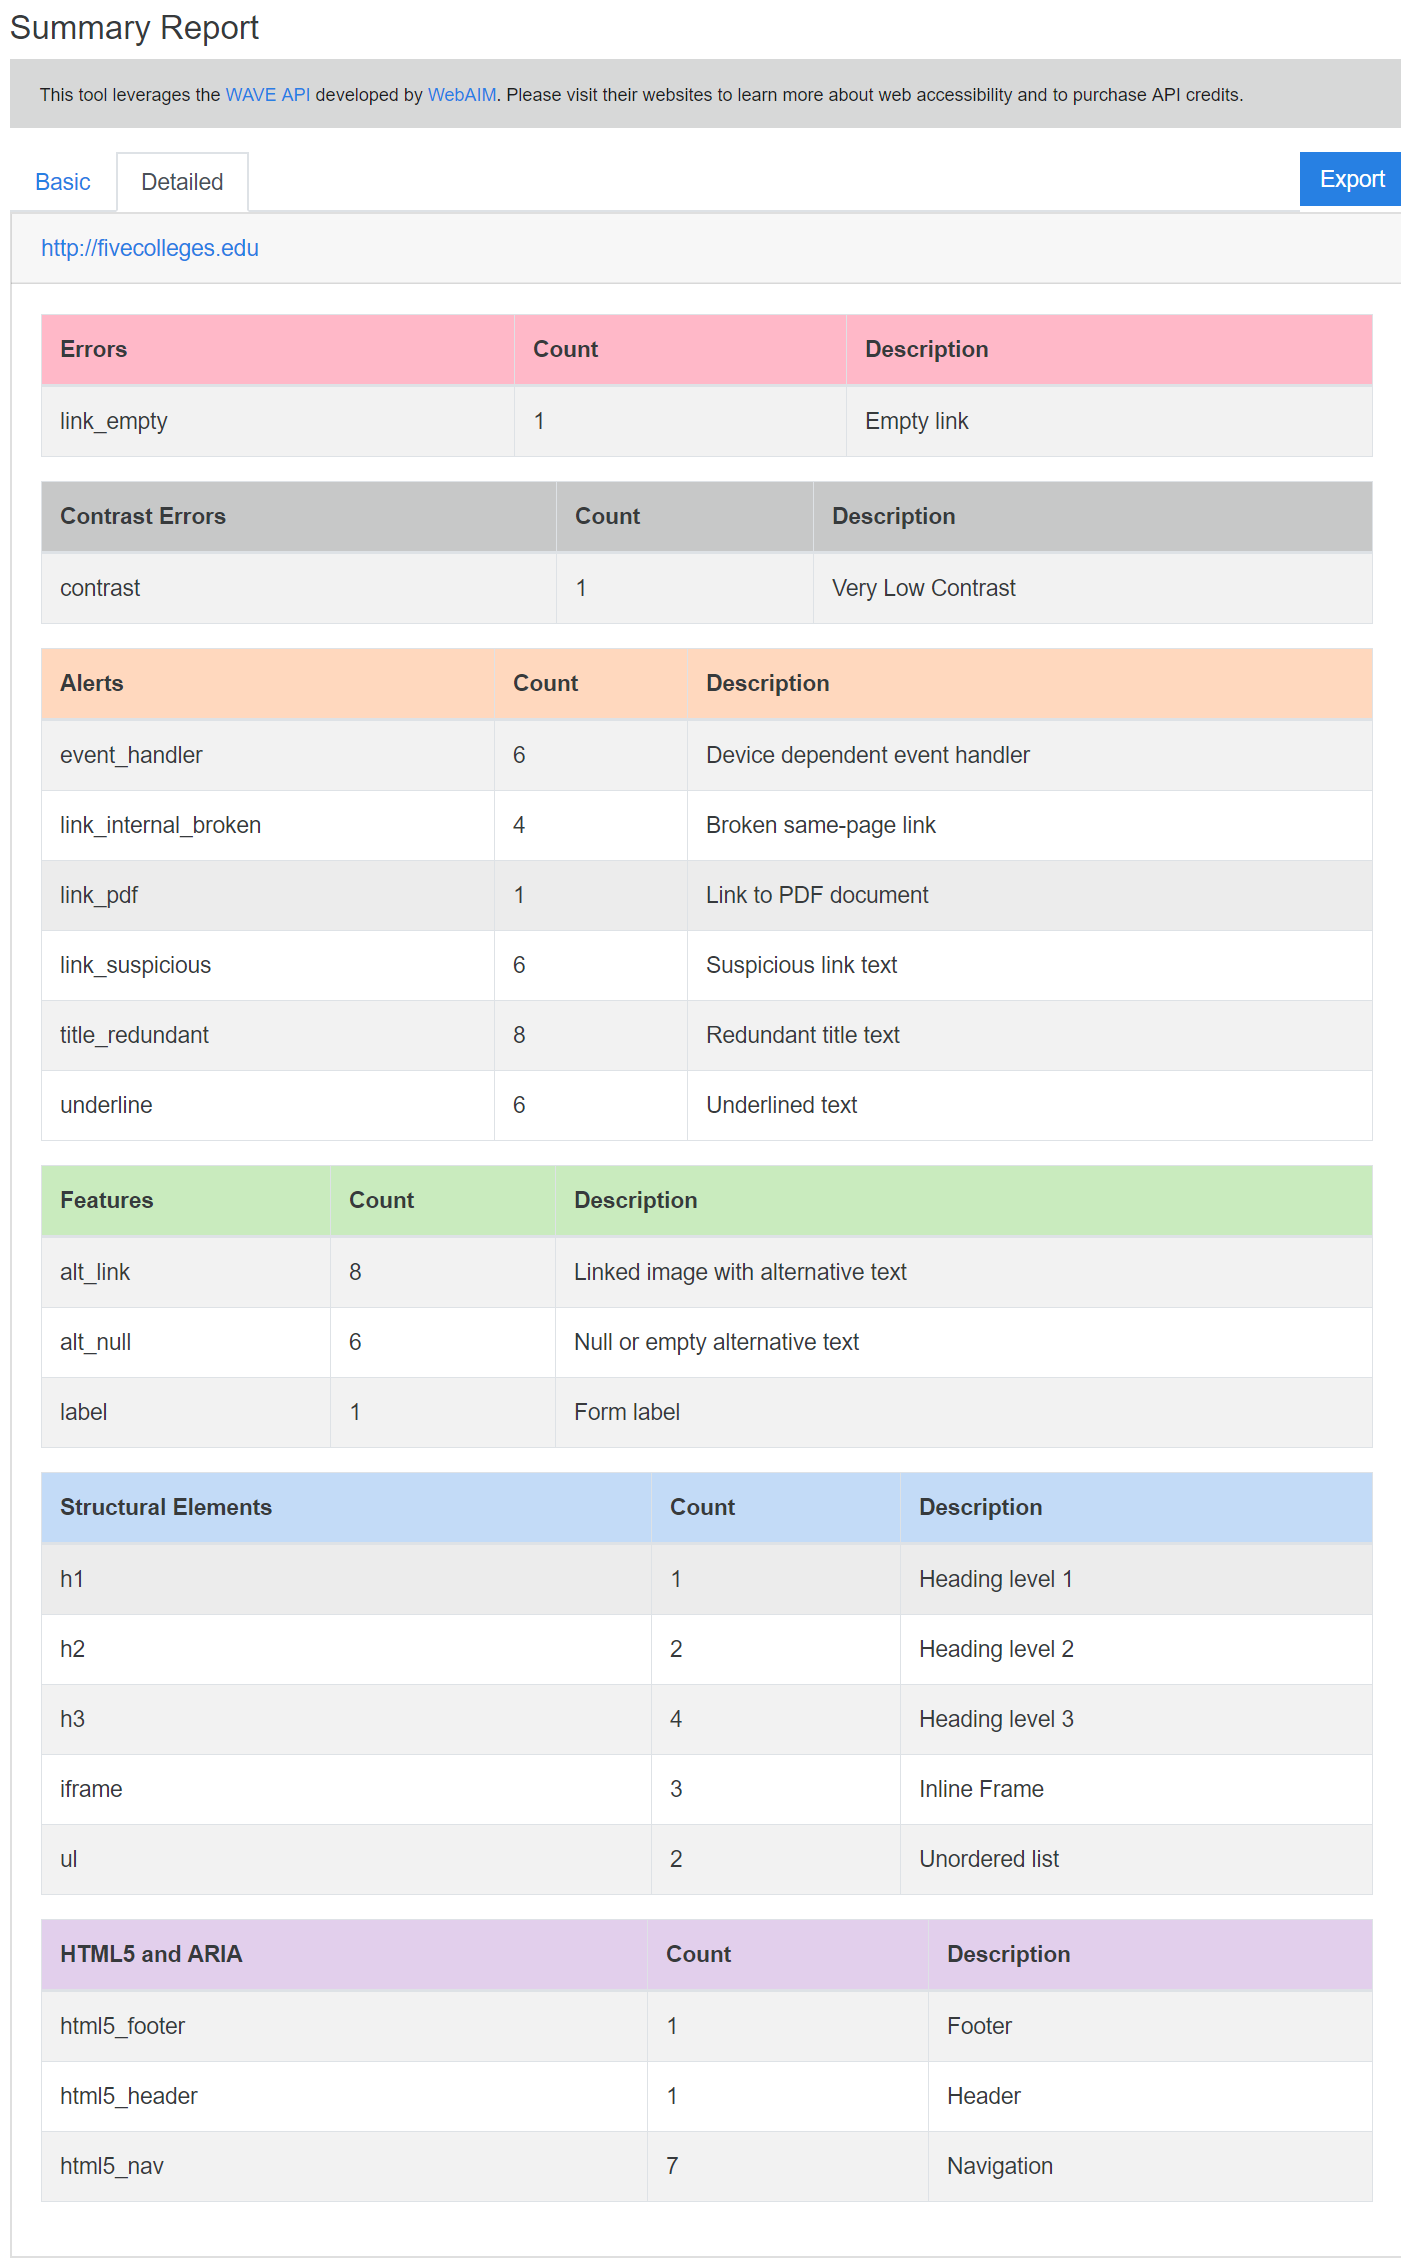
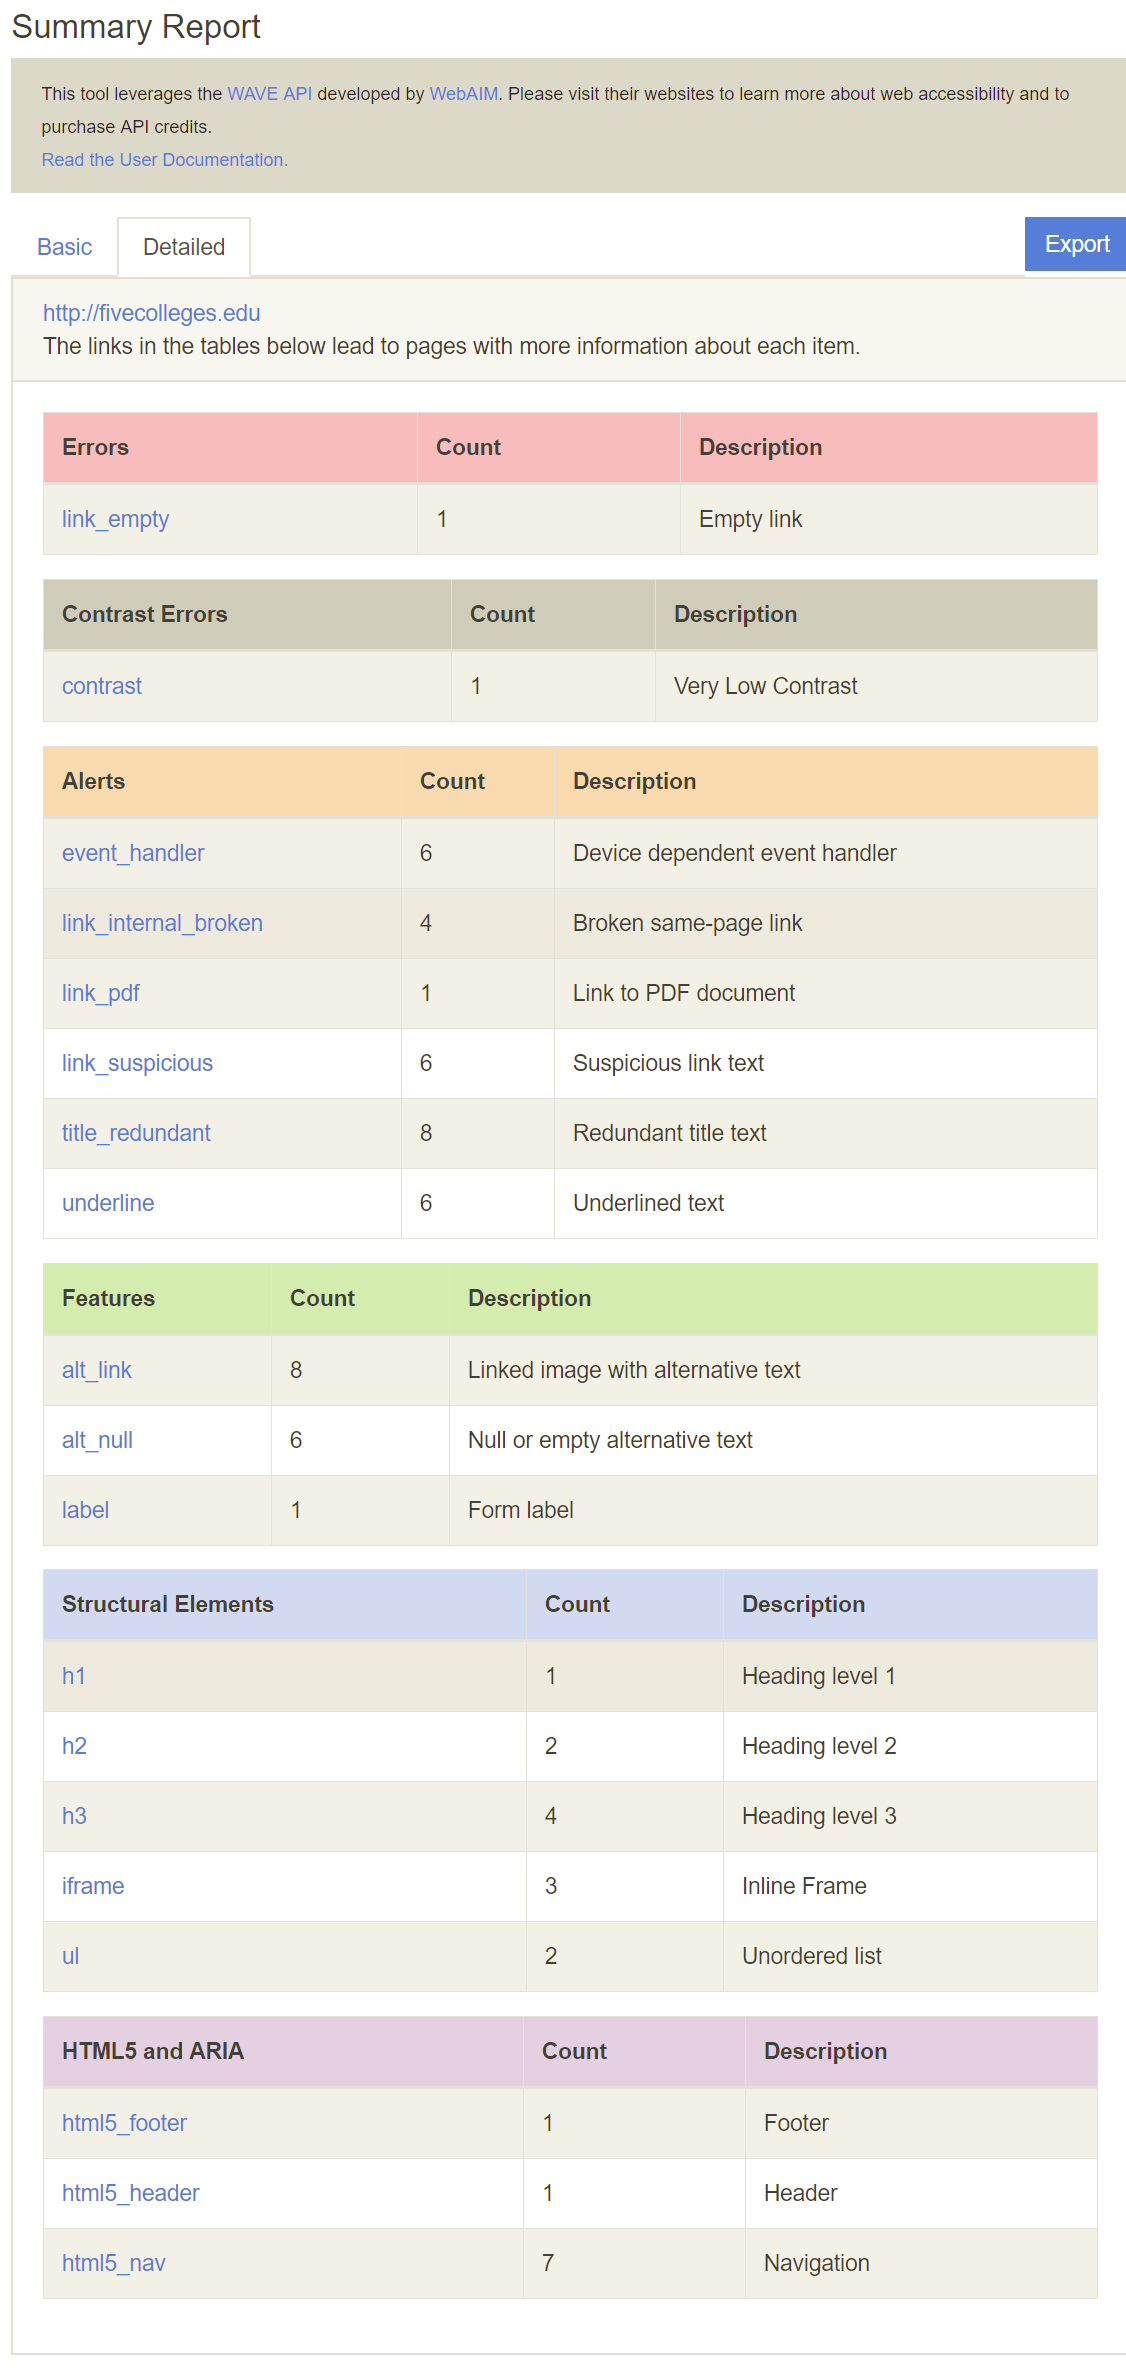
Updated examples to new version

diff --git a/public/examples/FiveCollegesExample.html b/public/examples/FiveCollegesExample.html
@@ -24,7 +24,7 @@
     </style>
     <body>
       <table>
-        <caption>WAVE accessibility summary report: May 15th 2018, 2:52pm</caption>
+        <caption>WAVE accessibility summary report: May 18th 2018, 11:47am</caption>
         <thead>
           <tr>
            <th scope="col" style="height:17.0pt;width:145pt">Page URL</th>
@@ -41,12 +41,12 @@
         <td>1</td>
         <td>31</td>
         <td>15</td>
-        <td>12</td>
+        <td>13</td>
         <td>9</td>
         <td>1</td>
       </tr></tbody></table>
 <table>
-        <caption>WAVE accessibility detailed report for <a href="http://wave.webaim.org/report?url=http://fivecolleges.edu" target="_blank">http://fivecolleges.edu</a>: May 15th 2018, 2:52pm</caption>
+        <caption>WAVE accessibility detailed report for <a href="http://wave.webaim.org/report?url=http://fivecolleges.edu" target="_blank">http://fivecolleges.edu</a>: May 18th 2018, 11:47am<br/>If you downloaded details.html from the site, clicking on the ID links will bring you to a page with more information about each item.</caption>
         <thead>
           <tr>
            <th scope="col" style="width:79pt">Item Type</th>
@@ -57,78 +57,78 @@
         </thead>
         <tbody><tr class="errors">
           <td>Error</td>
-          <td>link_empty</td>
+          <td><a href='details.html?attr=link_empty' target='_blank'>link_empty</a></td>
           <td>1</td>
           <td>Empty link</td></tr><tr class="alerts">
           <td>Alert</td>
-          <td>event_handler</td>
+          <td><a href='details.html?attr=event_handler' target='_blank'>event_handler</a></td>
           <td>6</td>
           <td>Device dependent event handler</td></tr><tr class="alerts">
           <td>Alert</td>
-          <td>link_internal_broken</td>
+          <td><a href='details.html?attr=link_internal_broken' target='_blank'>link_internal_broken</a></td>
           <td>4</td>
           <td>Broken same-page link</td></tr><tr class="alerts">
           <td>Alert</td>
-          <td>link_pdf</td>
+          <td><a href='details.html?attr=link_pdf' target='_blank'>link_pdf</a></td>
           <td>1</td>
           <td>Link to PDF document</td></tr><tr class="alerts">
           <td>Alert</td>
-          <td>link_suspicious</td>
+          <td><a href='details.html?attr=link_suspicious' target='_blank'>link_suspicious</a></td>
           <td>6</td>
           <td>Suspicious link text</td></tr><tr class="alerts">
           <td>Alert</td>
-          <td>title_redundant</td>
+          <td><a href='details.html?attr=title_redundant' target='_blank'>title_redundant</a></td>
           <td>8</td>
           <td>Redundant title text</td></tr><tr class="alerts">
           <td>Alert</td>
-          <td>underline</td>
+          <td><a href='details.html?attr=underline' target='_blank'>underline</a></td>
           <td>6</td>
           <td>Underlined text</td></tr><tr class="features">
           <td>Feature</td>
-          <td>alt_link</td>
+          <td><a href='details.html?attr=alt_link' target='_blank'>alt_link</a></td>
           <td>8</td>
           <td>Linked image with alternative text</td></tr><tr class="features">
           <td>Feature</td>
-          <td>alt_null</td>
+          <td><a href='details.html?attr=alt_null' target='_blank'>alt_null</a></td>
           <td>6</td>
           <td>Null or empty alternative text</td></tr><tr class="features">
           <td>Feature</td>
-          <td>label</td>
+          <td><a href='details.html?attr=label' target='_blank'>label</a></td>
           <td>1</td>
           <td>Form label</td></tr><tr class="structure">
           <td>Structure</td>
-          <td>h1</td>
+          <td><a href='details.html?attr=h1' target='_blank'>h1</a></td>
           <td>1</td>
           <td>Heading level 1</td></tr><tr class="structure">
           <td>Structure</td>
-          <td>h2</td>
+          <td><a href='details.html?attr=h2' target='_blank'>h2</a></td>
           <td>2</td>
           <td>Heading level 2</td></tr><tr class="structure">
           <td>Structure</td>
-          <td>h3</td>
+          <td><a href='details.html?attr=h3' target='_blank'>h3</a></td>
           <td>4</td>
           <td>Heading level 3</td></tr><tr class="structure">
           <td>Structure</td>
-          <td>iframe</td>
-          <td>3</td>
+          <td><a href='details.html?attr=iframe' target='_blank'>iframe</a></td>
+          <td>4</td>
           <td>Inline Frame</td></tr><tr class="structure">
           <td>Structure</td>
-          <td>ul</td>
+          <td><a href='details.html?attr=ul' target='_blank'>ul</a></td>
           <td>2</td>
           <td>Unordered list</td></tr><tr class="html5">
           <td>HTML5 and ARIA</td>
-          <td>html5_footer</td>
+          <td><a href='details.html?attr=html5_footer' target='_blank'>html5_footer</a></td>
           <td>1</td>
           <td>Footer</td></tr><tr class="html5">
           <td>HTML5 and ARIA</td>
-          <td>html5_header</td>
+          <td><a href='details.html?attr=html5_header' target='_blank'>html5_header</a></td>
           <td>1</td>
           <td>Header</td></tr><tr class="html5">
           <td>HTML5 and ARIA</td>
-          <td>html5_nav</td>
+          <td><a href='details.html?attr=html5_nav' target='_blank'>html5_nav</a></td>
           <td>7</td>
           <td>Navigation</td></tr><tr class="contrast">
           <td>Contrast</td>
-          <td>contrast</td>
+          <td><a href='details.html?attr=contrast' target='_blank'>contrast</a></td>
           <td>1</td>
           <td>Very Low Contrast</td></tr></tbody></table>

diff --git a/public/examples/details.html b/public/examples/details.html
@@ -1,0 +1,103 @@
+<!DOCTYPE html>
+<html lang="en">
+  <head>
+    <meta charset="utf-8">
+    <meta name="viewport" content="width=device-width, initial-scale=1, shrink-to-fit=no">
+    <meta name="theme-color" content="#000000">
+    <link rel="shortcut icon" href="favicon.ico">
+    <link rel="stylesheet" href="https://maxcdn.bootstrapcdn.com/bootswatch/4.0.0-beta.3/cosmo/bootstrap.min.css">
+    <title>Smith College Accessibility Tool</title>
+    <style>
+      .error {background-color:#f2dede;color:#a94442;}
+      .alert {background-color:#fcf8e3;color:#8a6d3b;}
+      .feature {background-color:#dff0d8;color:#3c763d;}
+      .structure {background-color:#d9edf7;color:#31708f;}
+      .html5 {background-color:#e8eaf8;color:#656789;}
+      .contrast {background-color:#ffffff;color:#000000;}
+      a {color: #0000EE; text-decoration: underline;}
+    </style>
+  </head>
+  <body>
+  	<script>
+      var toAddHTML = "";
+      function getQueryVariable(variable){
+        var query = window.location.search.substring(1);
+        var vars = query.split("&");
+        for (var i=0;i<vars.length;i++) {
+          var pair = vars[i].split("=");
+          if(pair[0] == variable){return pair[1];}
+        }
+        return(false);
+      }
+      /*Code adapted from Diogo Spinola's tutorial at https://medium.freecodecamp.org/javascript-from-callbacks-to-async-await-1cc090ddad99*/
+      function request(url) {
+        return new Promise(function(resolve, reject) {
+          const xhr = new XMLHttpRequest();
+          xhr.onreadystatechange = function(e) {
+            if (xhr.readyState === 4) {
+              if (xhr.status === 200) {
+                resolve(xhr.response)
+              } else {
+                reject(xhr.status)
+              }
+            }
+          }
+          xhr.ontimeout = function () {
+            reject('timeout')
+          }
+          xhr.open('get', url, true)
+          xhr.send()
+        })
+      }
+      function getDocs(id) {
+        var request = new XMLHttpRequest();
+        request.open('GET', `http://wave.webaim.org/api/docs?id=${id}`, true);
+        request.onload = function () {
+          var data = JSON.parse(this.response);
+            if (request.status >= 200 && request.status < 400) {
+              var gs = data.guidelines;
+              console.log(gs);
+              for (var i = 0, len = gs.length; i < len; i++){
+                var t = gs[i];
+                console.log(t);
+                console.log(t.link);
+                console.log(t.name);
+                toAddHTML += `<a href="${t.link}" target="_blank">${t.name}</a>; `;
+              }
+            }
+        }
+        request.send();
+        return(toAddHTML);
+      }
+
+      const attribute = getQueryVariable('attr');
+      const attrGet = `http://wave.webaim.org/api/docs?id=${attribute}`;
+      async function makeDetails(attrGet = false) {
+        const detailsJSON = await request(attrGet)
+        const ds = JSON.parse(detailsJSON)
+        toAddHTML += `<h1 class="${ds.type}" style="padding:5px;">${ds.type.charAt(0).toUpperCase() + ds.type.slice(1)}: ${ds.title}</h1>`;
+        toAddHTML += `<h3>${ds.summary}</h3> `;
+        toAddHTML += `<p>${ds.purpose}</p>`;
+        toAddHTML += `<h3>How to fix: </h3><p>${ds.actions}</p>`;
+        var gs = ds.guidelines;
+        toAddHTML += `<h3> Standards and Guidelines: </h3>`
+        if(gs.link){
+          toAddHTML += `<a href="${gs.link}" target="_blank">${gs.name}</a>`;
+        }
+        for (var i = 0; i < gs.length; i++){
+          var t = gs[i];
+          toAddHTML += `<a href="${t.link}" target="_blank">${t.name}</a>`;
+          if(i < gs.length){
+            toAddHTML += '<br/>';
+          }
+        }
+        toAddHTML += '<br/><br/><br/><a href="javascript: self.close()">Close this Window</a>';
+        document.getElementById("details").innerHTML = toAddHTML;
+      }
+
+      makeDetails(attrGet);
+
+    </script>
+    <div id="details" style="padding:5%"></div>
+  </body>
+</html>

diff --git a/public/USER-README.md b/public/USER-README.md
@@ -29,12 +29,13 @@ WAVE is a project created by [WebAIM](http://webaim.org) that can automatically 
 ## Reports
 1. If you have run a Summary report, you will only see one tab, with the details from each URL on each row of the table. Clicking on each of the URLs in the list will bring you to the full report generated by WAVE for that page. An example page showing the summary report for http://fivecolleges.edu: ![](examples/FiveCollegesExampleSummary.png)
 2. The Summary and Detail report contains a second tab with further information about each page. An example page showing the detailed report for http://fivecolleges.edu: ![](examples/FiveCollegesExampleDetailed.png)
+3. If you click on any of the item IDs in the detailed view, it will open a new tab with further information about that item. An example page showing the details for an empty link: ![](examples/DetailsExample.png)
 
 ## Export
 You can download reports in CSV, HTML, and JSON formats. Choose "Export" and a menu will appear where you can choose which type of export you want and what you would like to name the file. The types of reports are as follows:
 
 * CSV: This will create a spreadsheet with the data. This could be used to import data into another program, or as a way to see all the data together and work with it. This file can be opened in Microsoft Excel or any other spreadsheet program. [An example CSV report for fivecolleges.edu](examples/FiveCollegesExample.csv).
-* HTML: This generates a report similar to what you see on the main Accessibility Tool page, except it is available offline and can be accessed anytime. It is the most visual out of all the formats. Once the file has downloaded, clicking on it will open it in your default internet browser. It can also be edited in a plain-text editor. [An example HTML report for fivecolleges.edu](http://htmlpreview.github.io/?https://github.com/alexroseb/scl_a11y_eval_tool/blob/master/examples/FiveCollegesExample.html). [The HTML code for the report](examples/FiveCollegesExample.html).
+* HTML: This generates a report similar to what you see on the main Accessibility Tool page, except it is available offline and can be accessed anytime. It is the most visual out of all the formats. Once the file has downloaded, clicking on it will open it in your default internet browser. It can also be edited in a plain-text editor. [An example HTML report for fivecolleges.edu](examples/FiveCollegesExample.html). (If that link takes you just to the HTML code, you can also view a [rendered HTML report](http://htmlpreview.github.io/?https://github.com/alexroseb/scl_a11y_eval_tool/blob/master/examples/FiveCollegesExample.html).
 * JSON: This directly shows the output from the WAVE API call. It can be opened and edited in a plain-text editor and could be used as an import into another program. [An example JSON report for fivecolleges.edu](examples/FiveCollegesExample.json).
 
 # Interpreting Results
